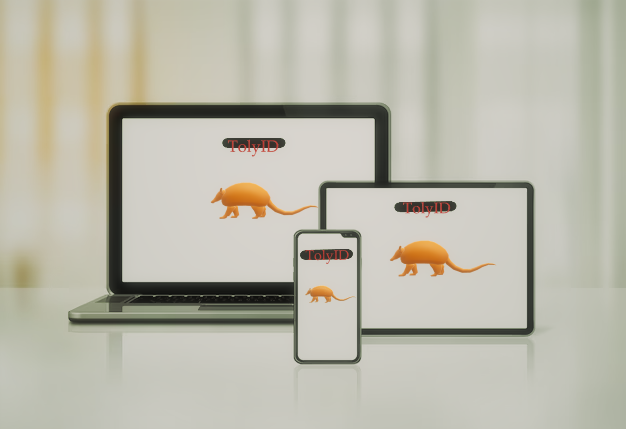
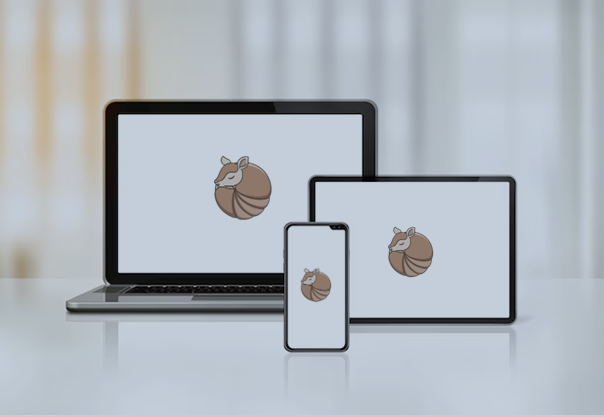
modified:   assets/imgs/tablet.png modified:   index.html new file:   inscrever.html modified:   login.html modified:   styles/styles.css

diff --git a/styles/styles.css b/styles/styles.css
@@ -4,7 +4,12 @@
 body{
     margin: 0px;
     font-family: 'Circular Std', sans-serif;
-    background-color: #00081d;
+    background-image: linear-gradient(333.52deg, #50301E 24.58%, white 84.55%, #50301E 104.96%);
+}
+
+#logo_initial{
+    width: 100px;
+
 }
 
 #logo{
@@ -12,9 +17,16 @@ body{
 }
 
 #container{
-    background-image: linear-gradient(103.24deg, rgba(0, 8, 29, 0.9) 23.83%, rgba(0, 8, 29, 0.3) 96.1%), url(https://i.pinimg.com/564x/96/c5/76/96c576ab67f222a1a735494b26dadb94.jpg);
+    background-image: linear-gradient(333.52deg, #50301E 24.58%, white 84.55%, #50301E 104.96%);
     background-size: cover;
     height: 700px;
+    padding: 40px;
+}
+
+#container2{
+    background-image: linear-gradient(333.52deg, #50301E 24.58%, white 84.55%, #50301E 104.96%);
+    background-size: cover;
+    height: 1000px;
     padding: 40px;
 }
 
@@ -38,12 +50,12 @@ select{
     background-color: #e50914;
     border: none;
     border-radius: 5px;
-    color: white;
+    color: rgb(255, 255, 255);
     font-size: 14px;
 }
 
 #main{
-    color: white;
+    color: black;
     margin-top: 100px;
     margin-left: 100px;
 }
@@ -61,13 +73,32 @@ h3{
 form{
     display: flex;
     flex-direction: row;
+
+}
+
+form2{
+    display: flex;
+    flex-direction: column;
+    align-items: center;
+    padding: 40px 60px;
+
 }
 
 #input{
     height: 50px;
     width: 350px;
     background-color: rgb(255, 255, 255);
-    border: 1px solid whitesmoke;
+    border: 1px solid rgb(0, 0, 0);
+    border-radius: 5px;
+    font-size: 16px;
+    padding: 0px 10px;
+}
+
+#input2{
+    height: 50px;
+    width: 350px;
+    background-color: rgb(255, 255, 255);
+    border: 1px solid rgb(0, 0, 0);
     border-radius: 5px;
     font-size: 16px;
     padding: 0px 10px;
@@ -78,8 +109,8 @@ form{
     font-size: 22px;
     padding: 2px 20px;
     font-weight: 500;
-    color: black;
-    background-color: white;
+    color: rgb(255, 255, 255);
+    background-color: rgb(255, 0, 0);
     border: none;
     border-radius: 5px;
 }
@@ -89,7 +120,15 @@ form{
     height: 600px;
     margin: 0 auto;
     margin-top: 100px;    
-    background: linear-gradient(333.52deg, #50301E 24.58%, white 84.55%, #50301E 104.96%);;
+    background: linear-gradient(333.52deg, #50301E 24.58%, white 84.55%, #50301E 104.96%);
+    border-radius: 5px;
+}
+#box-container2{
+    width: 30%;
+    height: 600px;
+    margin: 0 auto;
+    margin-top: 100px;    
+    background: linear-gradient(333.52deg, #50301E 24.58%, white 84.55%, #50301E 104.96%);
     border-radius: 5px;
 }
 
@@ -118,3 +157,4 @@ form{
     background-color: rgba(0, 0, 0, 0.467);
     margin: 0 auto;
 }
+

diff --git a/index.html b/index.html
@@ -12,8 +12,8 @@
         <div id="header">
             <img src="./assets/imgs/logo.png" id="logo" />
             <div id="nav">
-                <a href="C:\Users\Usuario\Downloads\TolyID\login.html" id="btn-enter">Inscrever-se</a>
-                <a href="C:\Users\Usuario\Downloads\TolyID\login.html" id="btn-enter">Entrar</a>
+                <button type="button" onclick="location.href='file:///C:/Users/Usuario/Downloads/TolyID/inscrever.html'" id="btn-enter">Inscrever-se</button>
+                <button type="button" onclick="location.href='file:///C:/Users/Usuario/Downloads/TolyID/login.html'" id="btn-enter">Entrar</button>
             </div>
         </div>
         <div id="main">
@@ -22,7 +22,7 @@
             <h3>Quer fazer parte dos voluntários? Informe seu email para criar sua conta.</h3>
             <form>
                 <input type="email" placeholder="Email" id="input" />
-                <a href="C:\Users\Usuario\Downloads\TolyID\login.html" id="btn-start" >Vamos lá ></a>
+                <button type="button" onclick="location.href='file:///C:/Users/Usuario/Downloads/TolyID/inscrever.html'" id="btn-start" >Vamos lá ></button>
             </form>
         </div>
         <div id="box-container">

diff --git a/login.html b/login.html
@@ -8,6 +8,22 @@
     <title>TolyID</title>
 </head>
 <body>
-   <h1>começo</h1>
+    <div id="container2">
+        <div id="header">
+            <img src="./assets/imgs/logo.png" id="logo" />
+        </div>
+        <div id="main">
+        </div>
+        <div id="box-container2">
+            <div class="box-info">
+                <div class="box-text">
+                    <form2>
+                        <img src="./assets/imgs/logo.png" id="logo_initial" />
+                        <input type="email" placeholder="Email" id="input2" />
+                        <input type="password" placeholder="Senha" id="input2" />
+                        <a href="C:\Users\Usuario\Downloads\TolyID\inscrever.html" id="btn-start" >Entrar ></a>
+                    </form2>
+        </div>
+    </div>
 </body>
 </html>

diff --git a/inscrever.html b/inscrever.html
@@ -1,0 +1,13 @@
+<!DOCTYPE html>
+<html lang="en">
+<head>
+    <meta charset="UTF-8" />
+    <meta http-equiv="X-UA-Compatible" content="IE=edge" />
+    <meta name="viewport" content="width=device-width, initial-scale=1.0" />
+    <link href="./styles/styles.css" rel="stylesheet" />
+    <title>TolyID</title>
+</head>
+<body>
+   <h1>começo</h1>
+</body>
+</html>
